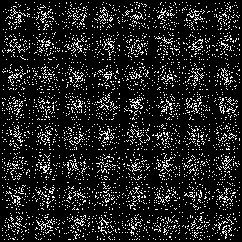
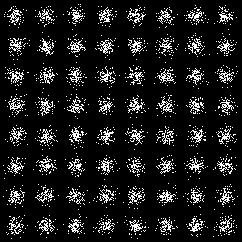
jianh

diff --git a/Demo4/main.py b/Demo4/main.py
@@ -18,7 +18,8 @@ def real_loss(D_out, device):
     #计算real图像损失
     batch_size = D_out.size(0)
     labels = torch.ones(batch_size).to(device)
-    crit =nn.BCEWithLogitsLoss()
+    crit = nn.BCELoss()
+    #crit = nn.BCEWithLogitsLoss()
     assert (D_out.data.cpu().numpy().all() >= 0. and D_out.data.cpu().numpy().all() <= 1.)
     loss = crit(D_out.squeeze(), labels.squeeze())
     return loss
@@ -27,13 +28,14 @@ def fake_loss(D_out, device):
     #计算fake图像损失
     batch_size = D_out.size(0)
     labels = torch.zeros(batch_size).to(device) 
+    #crit = nn.BCELoss()
     crit = nn.BCEWithLogitsLoss()
     assert (D_out.data.cpu().numpy().all() >= 0. and D_out.data.cpu().numpy().all() <= 1.)
     loss = crit(D_out.squeeze(), labels.squeeze())
     return loss
 
 def points_to_image(points):
-    """ 绘制图像 """
+    """ 坐标点转成像素图 """
     batch_size = points.size(0)
     images = []
     for b in range(batch_size):
@@ -50,7 +52,7 @@ def points_to_image(points):
     return images_tensor
 
 def show_lossHist(hist, path=None):
-    """ 损失优化结果 """
+    """ 损失图 """
     if not os.path.isdir(path):
         os.mkdir(path)
     fname = 'loss_hist.png'
@@ -83,10 +85,9 @@ def main():
 
     # 加载数据集
     transform = transforms.Compose([
-        transforms.ToTensor(),
-        transforms.Normalize(mean=[0.5], std=[0.5])
+        transforms.ToTensor()
     ])
-    _ = datasets.MNIST(root='data', train=True, download=True, transform=transforms)
+    _ = datasets.MNIST(root='data', train=True, download=True, transform=None)
     train_data = MNISTLayoutDataset('data')
     train_loader = DataLoader(train_data, batch_size=batch_size, shuffle=True)
 
@@ -94,13 +95,13 @@ def main():
     print("load model")
     gen = model.Generator(element_num, geo_num, cls_num).to(device)
     dis = model.Discriminator(batch_size, geo_num, cls_num, element_num).to(device)
-    # gen.initialize_weights()
-    # dis.initialize_weights()
+    gen.weight_init(0, 0.02)
+    dis.weight_init(0, 0.02)
     # 定义优化器
     print("Initialize optimizers")
     g_optimizer = optim.Adam(gen.parameters(), lr, (beta1, beta2))
     #g_optimizer = optim.SGD(gen.parameters(), lr)
-    d_optimizer = optim.Adam(dis.parameters(), lr/10, (beta1, beta2))
+    d_optimizer = optim.Adam(dis.parameters(), lr, (beta1, beta2))
     #d_optimizer = optim.SGD(dis.parameters(), lr/10)
 
     # 设置为训练模式
@@ -117,12 +118,12 @@ def main():
     print('start train!!!')
     start_time = time.time()
     for epoch in range(num_epochs):
-        scheduler = optim.lr_scheduler.StepLR(d_optimizer, step_size=2, gamma=0.1)
+        scheduler = optim.lr_scheduler.StepLR(d_optimizer, step_size=10, gamma=0.1)
         D_losses, G_losses = [], []
         epoch_start_time = time.time()
         for batch_idx, real_images in enumerate(train_loader, 1):
             
-            #输出真实图像，观察提取像素点效果,这里只显示第一个批次中的9张
+            #输出真实图像，观察提取像素点效果,这里只显示第一个批次中的64张
             if batch_idx == 1:
                 imgs = real_images[:64, :, :]
                 real_imgs = points_to_image(imgs).view(-1, 1, 28, 28)
@@ -133,14 +134,17 @@ def main():
             # 训练判别器
             d_optimizer.zero_grad()
 
+            #判断真实图像
             real_images = Variable(real_images)
-            D_real = dis(real_images) #判断真实图像
-            d_real_loss = real_loss(D_real, device) #计算真实图像损失
+            D_real = dis(real_images) 
+            d_real_loss = real_loss(D_real, device)
 
             # 随机初始化类别和位置信息
             z_cls = torch.FloatTensor(batch_size, element_num, cls_num).uniform_(0, 1) #均匀分布
-            z_geo = torch.FloatTensor(batch_size, element_num, geo_num).normal_(0.5, 0.25) #正态分布
+            #z_cls = torch.FloatTensor(torch.ones(batch_size, element_num, cls_num))#类别都是1
+            z_geo = torch.FloatTensor(batch_size, element_num, geo_num).normal_(0.5, 0.15) #正态分布
             z = torch.cat((z_cls, z_geo), 2).to(device)
+            """ 初始位置分布 """
             if batch_idx == 1:
                 imgs = z[:64, :, :]
                 real_imgs = points_to_image(imgs).view(-1, 1, 28, 28)
@@ -161,8 +165,9 @@ def main():
             # 训练生成器
             g_optimizer.zero_grad()
             # 随机初始化
-            z_cls = torch.FloatTensor(batch_size, element_num, cls_num).uniform_(0, 1)
-            z_geo = torch.FloatTensor(batch_size, element_num, geo_num).normal_(0.5, 0.25)
+            #z_cls = torch.FloatTensor(batch_size, element_num, cls_num).uniform_(0, 1)
+            z_cls = torch.FloatTensor(torch.ones(batch_size, element_num, cls_num)) #类别都是1
+            z_geo = torch.FloatTensor(batch_size, element_num, geo_num).normal_(0.5, 0.15)
             z = torch.cat((z_cls, z_geo), 2).to(device)
 
             fake_images_g = gen(z) #生成fake图像
@@ -181,15 +186,15 @@ def main():
         if not os.path.isdir(result_path):
             os.mkdir(result_path)
         #测试部分
-        test_samples = 64
-        z_cls = torch.FloatTensor(test_samples, element_num, cls_num).uniform_(0, 1) #均匀分布
-        z_geo = torch.FloatTensor(test_samples, element_num, geo_num).normal_(0.5, 0.25) #正态分布
-        z = torch.cat((z_cls, z_geo), 2).to(device)
+        # test_samples = 64
+        # #z_cls = torch.FloatTensor(test_samples, element_num, cls_num).uniform_(0, 1) #均匀分布
+        # z_cls = torch.FloatTensor(torch.ones(test_samples, element_num, cls_num)) #类别都是1
+        # z_geo = torch.FloatTensor(test_samples, element_num, geo_num).normal_(0.5, 0.15) #正态分布
+        # z = torch.cat((z_cls, z_geo), 2).to(device)
 
-        generated_images = gen(z)
-        generated_images = points_to_image(generated_images).view(-1, 1, 28, 28)
-        save_image(generated_images, '{}/{}.png'.format(result_path, epoch+1, ), nrow=8)
-
+        # generated_images = gen(z)
+        # generated_images = points_to_image(generated_images).view(-1, 1, 28, 28)
+        # save_image(generated_images, '{}/{}.png'.format(result_path, epoch+1, ), nrow=8)
         loss_hist['D_losses'].append(torch.mean(torch.FloatTensor(D_losses)))
         loss_hist['G_losses'].append(torch.mean(torch.FloatTensor(G_losses)))
         loss_hist['per_epoch_times'].append(per_epoch_time)

diff --git a/Demo4/model.py b/Demo4/model.py
@@ -16,6 +16,10 @@ import torchvision.utils as vutils
 from tensorboardX import SummaryWriter
 
 
+def normal_init(m, mean, std):
+    if isinstance(m, nn.Linear):
+        m.weight.data.normal_(mean, std)
+        m.bias.data.zero_()
 
 class Attention(nn.Module):
     def __init__(self, in_channels, out_channels=None, dimension=1, sub_sample=False, bn=True, generate=True):
@@ -38,6 +42,7 @@ class Attention(nn.Module):
         if sub_sample: #是否需要下采样，这里会用到最大池化
             self.g=nn.Sequential(self.g, nn.MaxPool1d)
             self.phi=nn.Sequential(self.phi, nn.MaxPool1d)
+
 
     def forward(self, x): #x: (256, 128, 12)
         batch_size = x.size(0) #批次大小
@@ -90,18 +95,9 @@ class Generator(nn.Module):
         self.fc6 = nn.Linear(self.feature_size, cls_num)
         self.fc7 = nn.Linear(self.feature_size, geo_num)
 
-    # def initialize_weights(self):
-    #     for m in self.modules():
-    #         if isinstance(m, nn.Conv1d):
-    #             m.weight.data.normal_(0, 0.02)
-    #             if m.bias is not None:
-    #                 m.bias.data.zero_()
-    #         elif isinstance(m, nn.BatchNorm1d):
-    #             m.weight.data.fill_(1)
-    #             m.bias.data.zero_()
-    #         elif isinstance(m, nn.Linear):
-    #             m.weight.data.normal_(0, 0.01)
-    #             m.bias.data.zero_()
+    def weight_init(self, mean, std):
+        for m in self._modules:
+            normal_init(self._modules[m], mean, std)
 
     def forward(self, x):
 
@@ -159,7 +155,10 @@ class Discriminator(nn.Module):
         # Decode
         self.decoder_fc4 = nn.Linear(self.feature_size*2*2, self.feature_size*2, bias=False)
         self.decoder_fc5 = nn.Linear(self.feature_size*2, 1, bias=False)
-
+        
+    def weight_init(self, mean, std):
+        for m in self._modules:
+            normal_init(self._modules[m], mean, std)
     def forward(self, x_in):
         
         x = torch.relu(self.encoder_bn1(self.encoder_fc1(x_in)))
